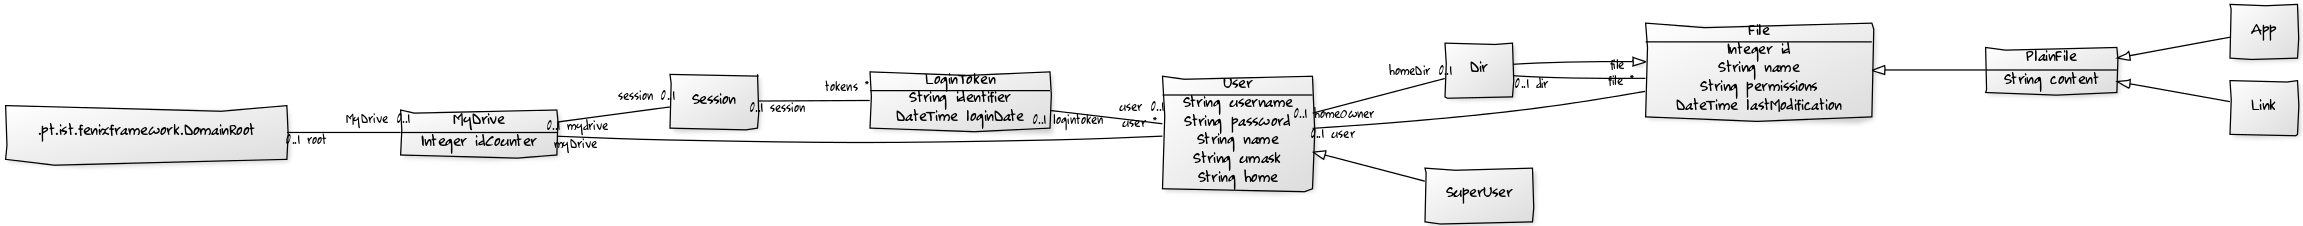
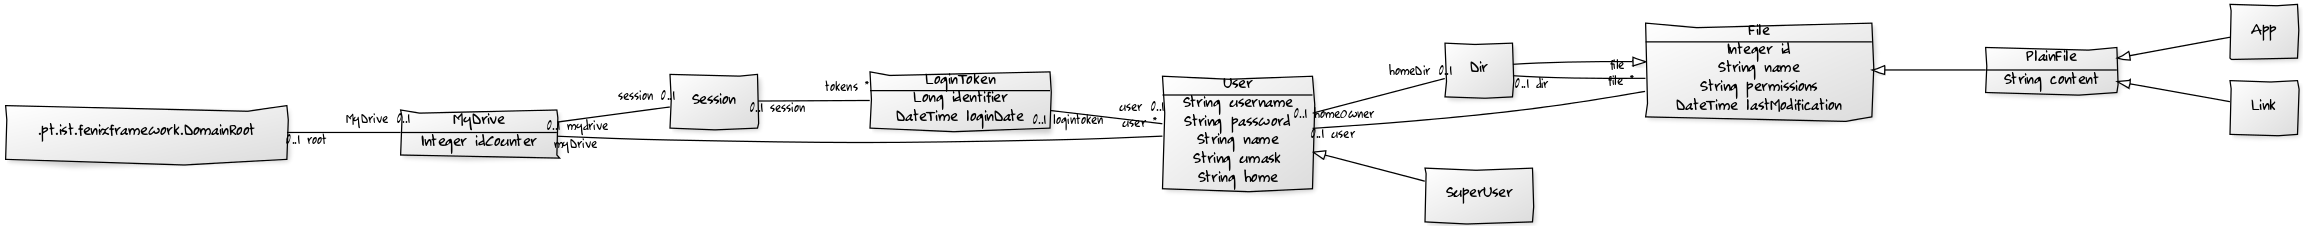
Changed LoginToken format from String to Long. Added aprox. uniform random Long generator.

diff --git a/src/main/java/pt/tecnico/myDrive/domain/Session.java b/src/main/java/pt/tecnico/myDrive/domain/Session.java
@@ -25,9 +25,9 @@ public class Session extends Session_Base {
     
     public void maintenance(){
     	if (this.hasOnlineUsers()){
-    		for (LoginToken tok : getTokensSet()){
-    			if (!tok.isDateValid(new DateTime())){
-    				this.removeUserFromSession(tok.getIdentifier());
+    		for (LoginToken token : getTokensSet()){
+    			if (!token.isDateValid(new DateTime())){
+    				this.removeUserFromSession(token.getIdentifier());
     			}
     				
     		}
@@ -35,9 +35,9 @@ public class Session extends Session_Base {
     }
     
     
-    public boolean isRootToken(String tok){
+    public boolean isRootToken(String token){
     	for(User u : this.getMydrive().getUserSet()){
-    		if(u.getUsername().equals("root") && u.getLogintoken().getIdentifier().equals(tok)){
+    		if(u.getUsername().equals("root") && u.getLogintoken().getIdentifier().equals(token)){
     				return true;
     			}
     		}
@@ -46,8 +46,8 @@ public class Session extends Session_Base {
     
     public boolean hasUsernameInSession(String username){
     	if(this.hasOnlineUsers()){
-    		for(LoginToken tok: this.getTokensSet()){
-    			if(tok.getUser().getUsername().equals(username)){
+    		for(LoginToken token: this.getTokensSet()){
+    			if(token.getUser().getUsername().equals(username)){
     				return true;
     			}
     		}
@@ -56,7 +56,7 @@ public class Session extends Session_Base {
     	return false;
     }
     
-    public boolean isOnline(String token){
+    public boolean isOnline(Long token){
     	if(this.hasOnlineUsers()){
     		for(LoginToken t : this.getTokensSet()){
     			if(t.getIdentifier().equals(token)){
@@ -72,55 +72,55 @@ public class Session extends Session_Base {
     	if (users.isEmpty()){
     		return null;
     	}
-    	for (LoginToken tk: users){
-    		if (tk.getUser().getUsername().equals(username))
-    			return tk;
+    	for (LoginToken t: users){
+    		if (t.getUser().getUsername().equals(username))
+    			return t;
     	}
     	return null;
     }
     
-    public String addUsertoSession(String username) throws UserDoesNotExistException{
-    	User u = this.getMydrive().getUserByUsername(username);
-    	if(u!=null){
-    		LoginToken tok = new LoginToken(u);
-    		this.addTokens(tok);
-    		return tok.getIdentifier();
+    public Long addUsertoSession(String username) throws UserDoesNotExistException{
+    	User user = this.getMydrive().getUserByUsername(username);
+    	if(user != null){
+    		LoginToken token = new LoginToken(user);
+    		this.addTokens(token);
+    		return token.getIdentifier();
     	}
     	else{
     		throw new UserDoesNotExistException(username);
     	}
     }
     
-    public String addUsertoSession(String username,String old) throws UserDoesNotExistException{
-    	User u = this.getMydrive().getUserByUsername(username);
-    	if(u!=null){
-    		Integer randomOld = Integer.parseInt(old.substring(old.length()-1)); 
-    		LoginToken tok = new LoginToken(u,randomOld);
-    		this.addTokens(tok);
-    		return tok.getIdentifier();
+    public Long addUsertoSession(String username, Long oldToken) throws UserDoesNotExistException{
+    	User user = this.getMydrive().getUserByUsername(username);
+    	if(user != null){
+    		//Integer oldRandom = Integer.parseInt(oldToken.substring(oldToken.length()-1)); 
+    		LoginToken token = new LoginToken(user, oldToken);
+    		this.addTokens(token);
+    		return token.getIdentifier();
     	}
     	else{
     		throw new UserDoesNotExistException(username);
     	}
     }
     
-    public void removeUserFromSession(String usertoken){
+    public void removeUserFromSession(Long userToken){
     	if(this.hasOnlineUsers()){
-    		if(this.isOnline(usertoken)){
-    			for(LoginToken tok : this.getTokensSet()){
-    				if(tok.getIdentifier().equals(usertoken)){
-    					this.removeTokens(tok);
+    		if(this.isOnline(userToken)){
+    			for(LoginToken token : this.getTokensSet()){
+    				if(token.getIdentifier().equals(userToken)){
+    					this.removeTokens(token);
     				}
     			}
     		}
     	}	
     }
     
-    public User getUserFromSession(String usertoken){
+    public User getUserFromSession(String userToken){
     	if(this.hasOnlineUsers()){
-    		for(LoginToken tok: this.getTokensSet()){
-    			if(tok.getIdentifier().equals(usertoken)){
-    				return tok.getUser();
+    		for(LoginToken token: this.getTokensSet()){
+    			if(token.getIdentifier().equals(userToken)){
+    				return token.getUser();
     			}
     		}
     	}

diff --git a/src/main/java/pt/tecnico/myDrive/domain/LoginToken.java b/src/main/java/pt/tecnico/myDrive/domain/LoginToken.java
@@ -1,6 +1,9 @@
 package pt.tecnico.myDrive.domain;
 
 import org.joda.time.DateTime;
+
+import java.math.BigInteger;
+
 import java.util.Random;
 
 import pt.tecnico.myDrive.domain.User;
@@ -9,29 +12,33 @@ public class LoginToken extends LoginToken_Base {
     
     public LoginToken(User user) {
         super();
+        
+        Long tokenId = new BigInteger(64, new Random()).longValue();
+        
         this.setUser(user);
         this.setLoginDate(new DateTime());
         if (user.getUsername().equals("root")){
-     	   this.setIdentifier(user.getUsername());
+     	   this.setIdentifier(tokenId);
         }
         else{
-     	   int r = (new Random().nextInt(10));
-     	   this.setIdentifier(user.getUsername()+r);
+     	   this.setIdentifier(tokenId);
         }
     }
     
-    public LoginToken(User user, int old) {
+    public LoginToken(User user, long oldToken) {
         super();
+        
+        Long tokenId = new BigInteger(64, new Random()).longValue();
+        
         this.setUser(user);
         this.setLoginDate(new DateTime());
         if (user.getUsername().equals("root")){
-     	   this.setIdentifier(user.getUsername());
+     	   this.setIdentifier(tokenId);
         }
         else{
         	while(true){
-        		int r = (new Random().nextInt(10));
-        		if (r != old){
-        			this.setIdentifier(user.getUsername()+r);
+        		if (tokenId != oldToken){
+        			this.setIdentifier(tokenId);
         			break;
         		}
         	}
@@ -43,12 +50,13 @@ public class LoginToken extends LoginToken_Base {
     		this.setLoginDate(new DateTime());
     	}
     	else{	
-	    	int r = (new Random().nextInt(9));
-	    	if (this.getIdentifier().equals(this.getUser().getUsername()+r)){ //gerou mesmo random
+    		Long tokenId = new BigInteger(64, new Random()).longValue();
+    		
+	    	if (this.getIdentifier().equals(tokenId)){ //gerou mesmo random
 	    		this.refreshToken();
 	    	}
 	    	else{
-	    		this.setIdentifier(this.getUser().getUsername()+r);
+	    		this.setIdentifier(tokenId);
 	        	this.setLoginDate(new DateTime());
 	    	}
     	}	
